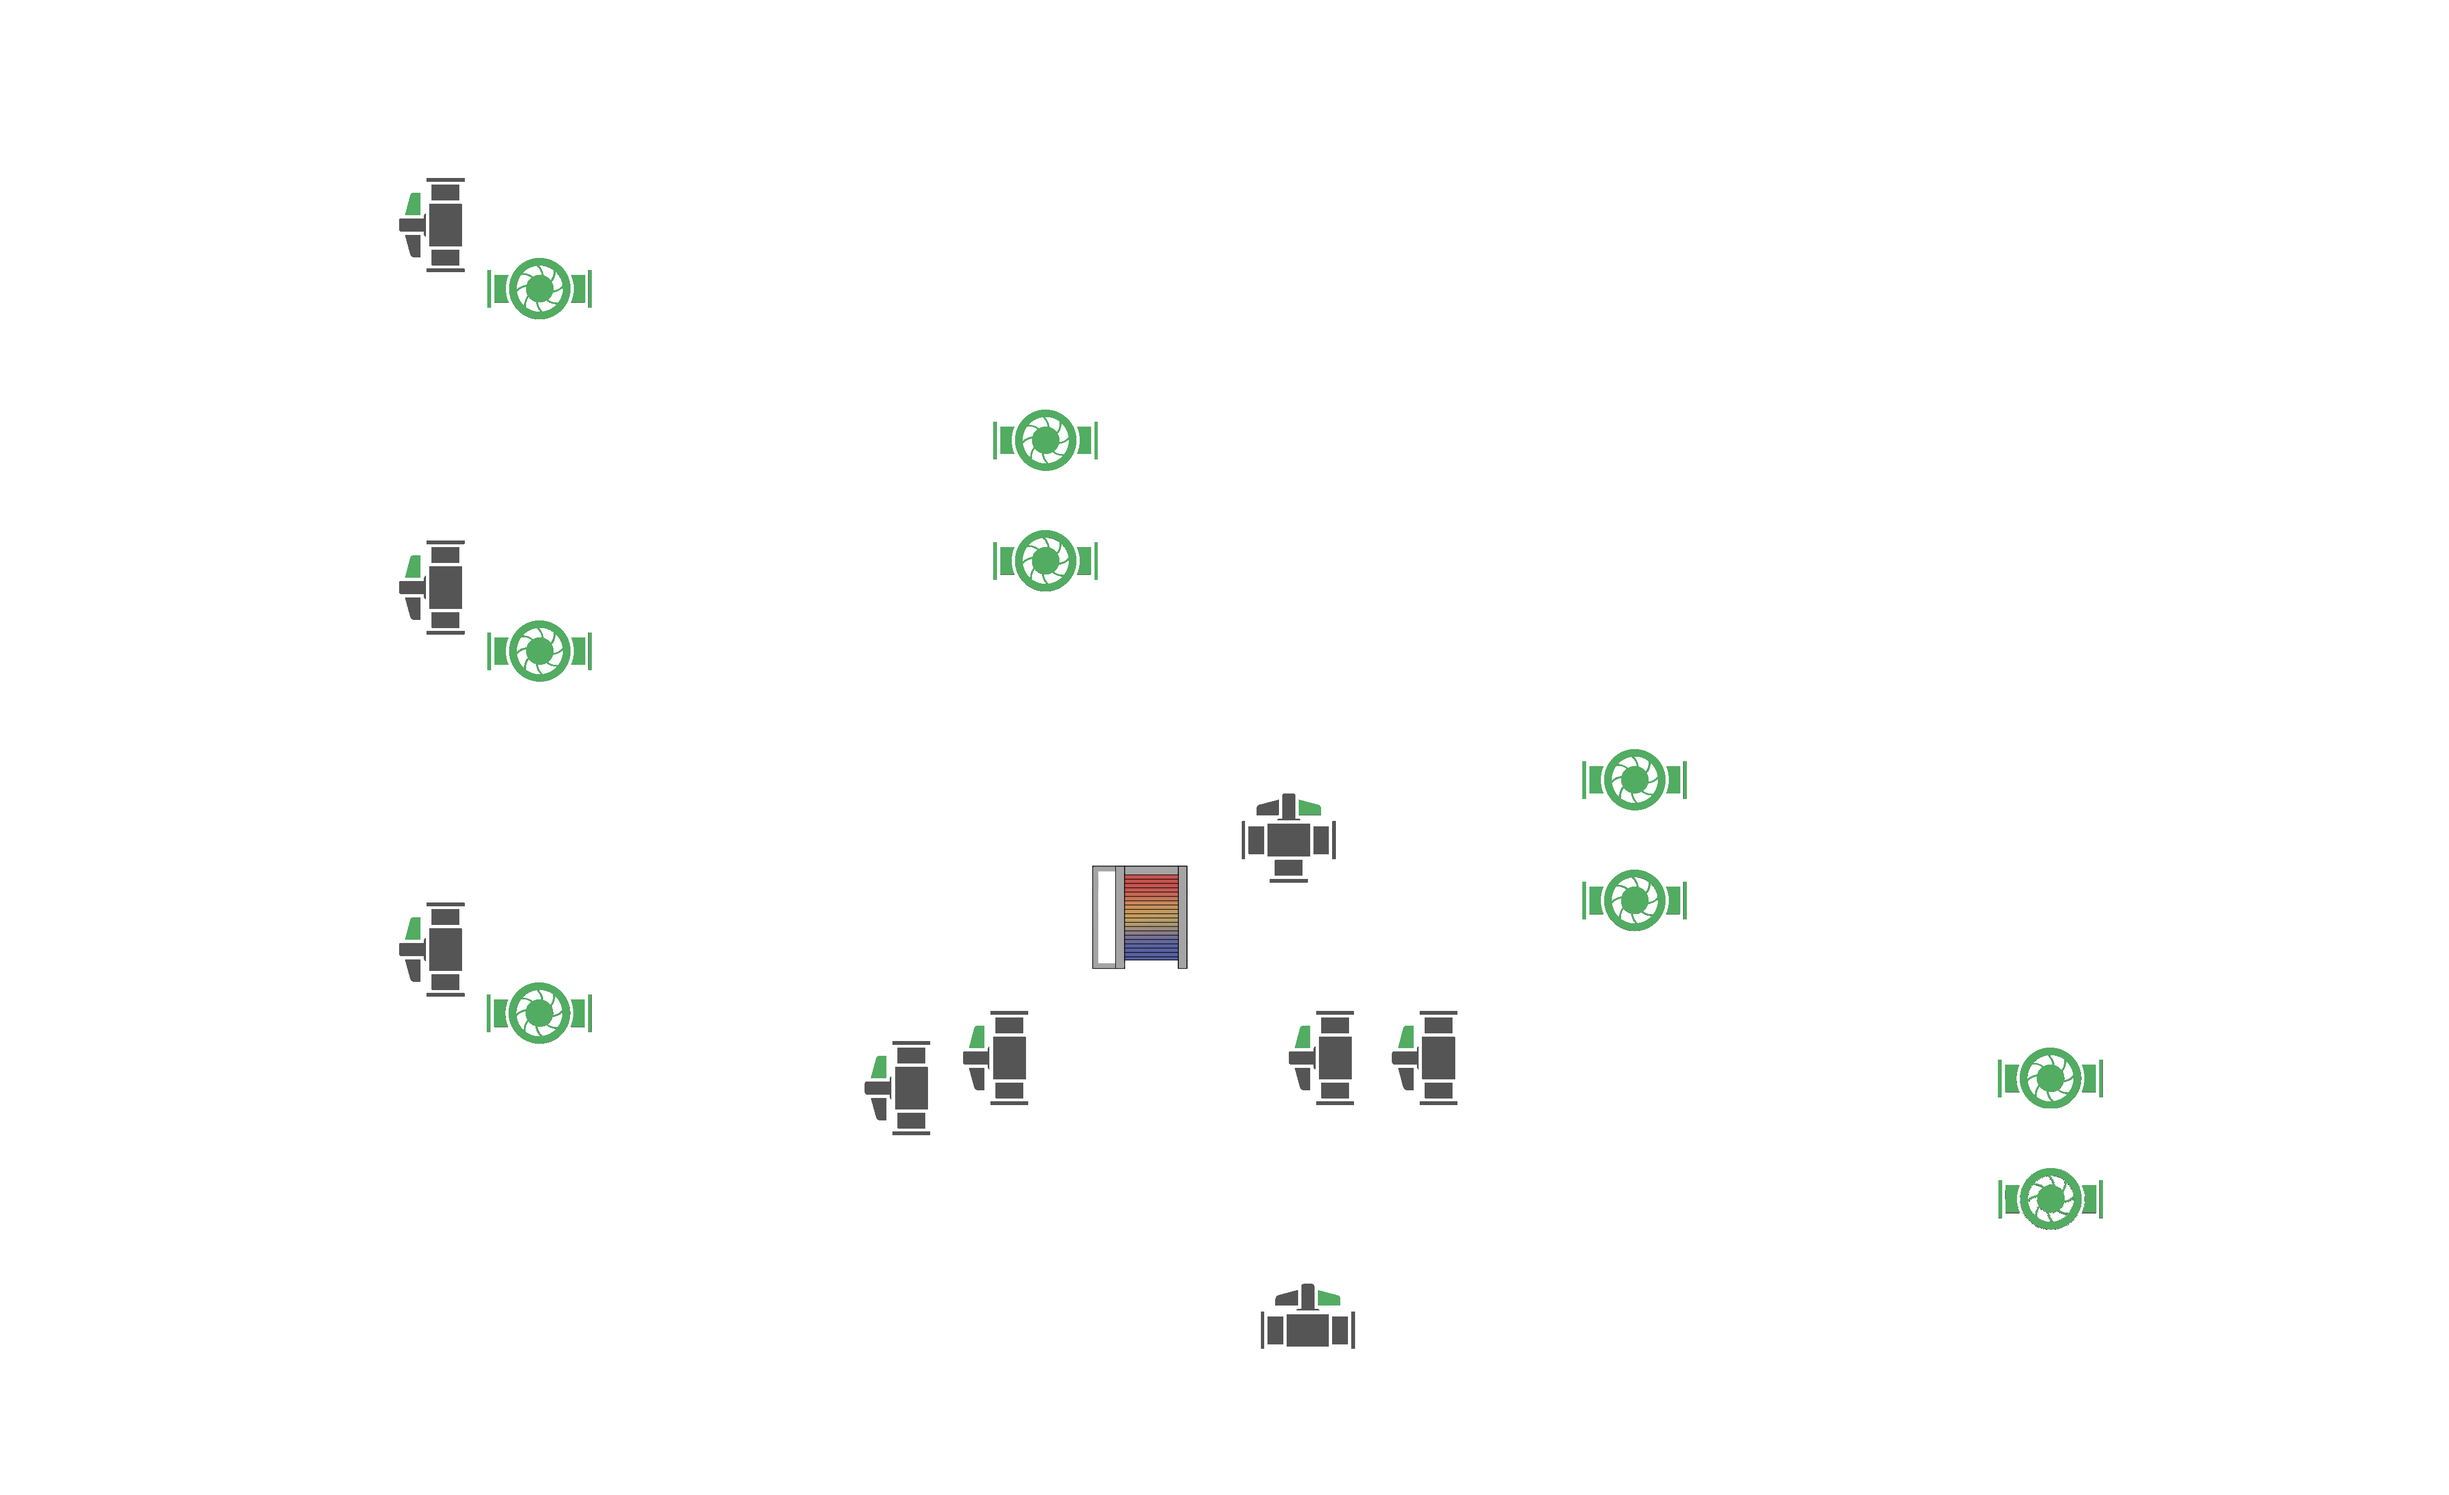
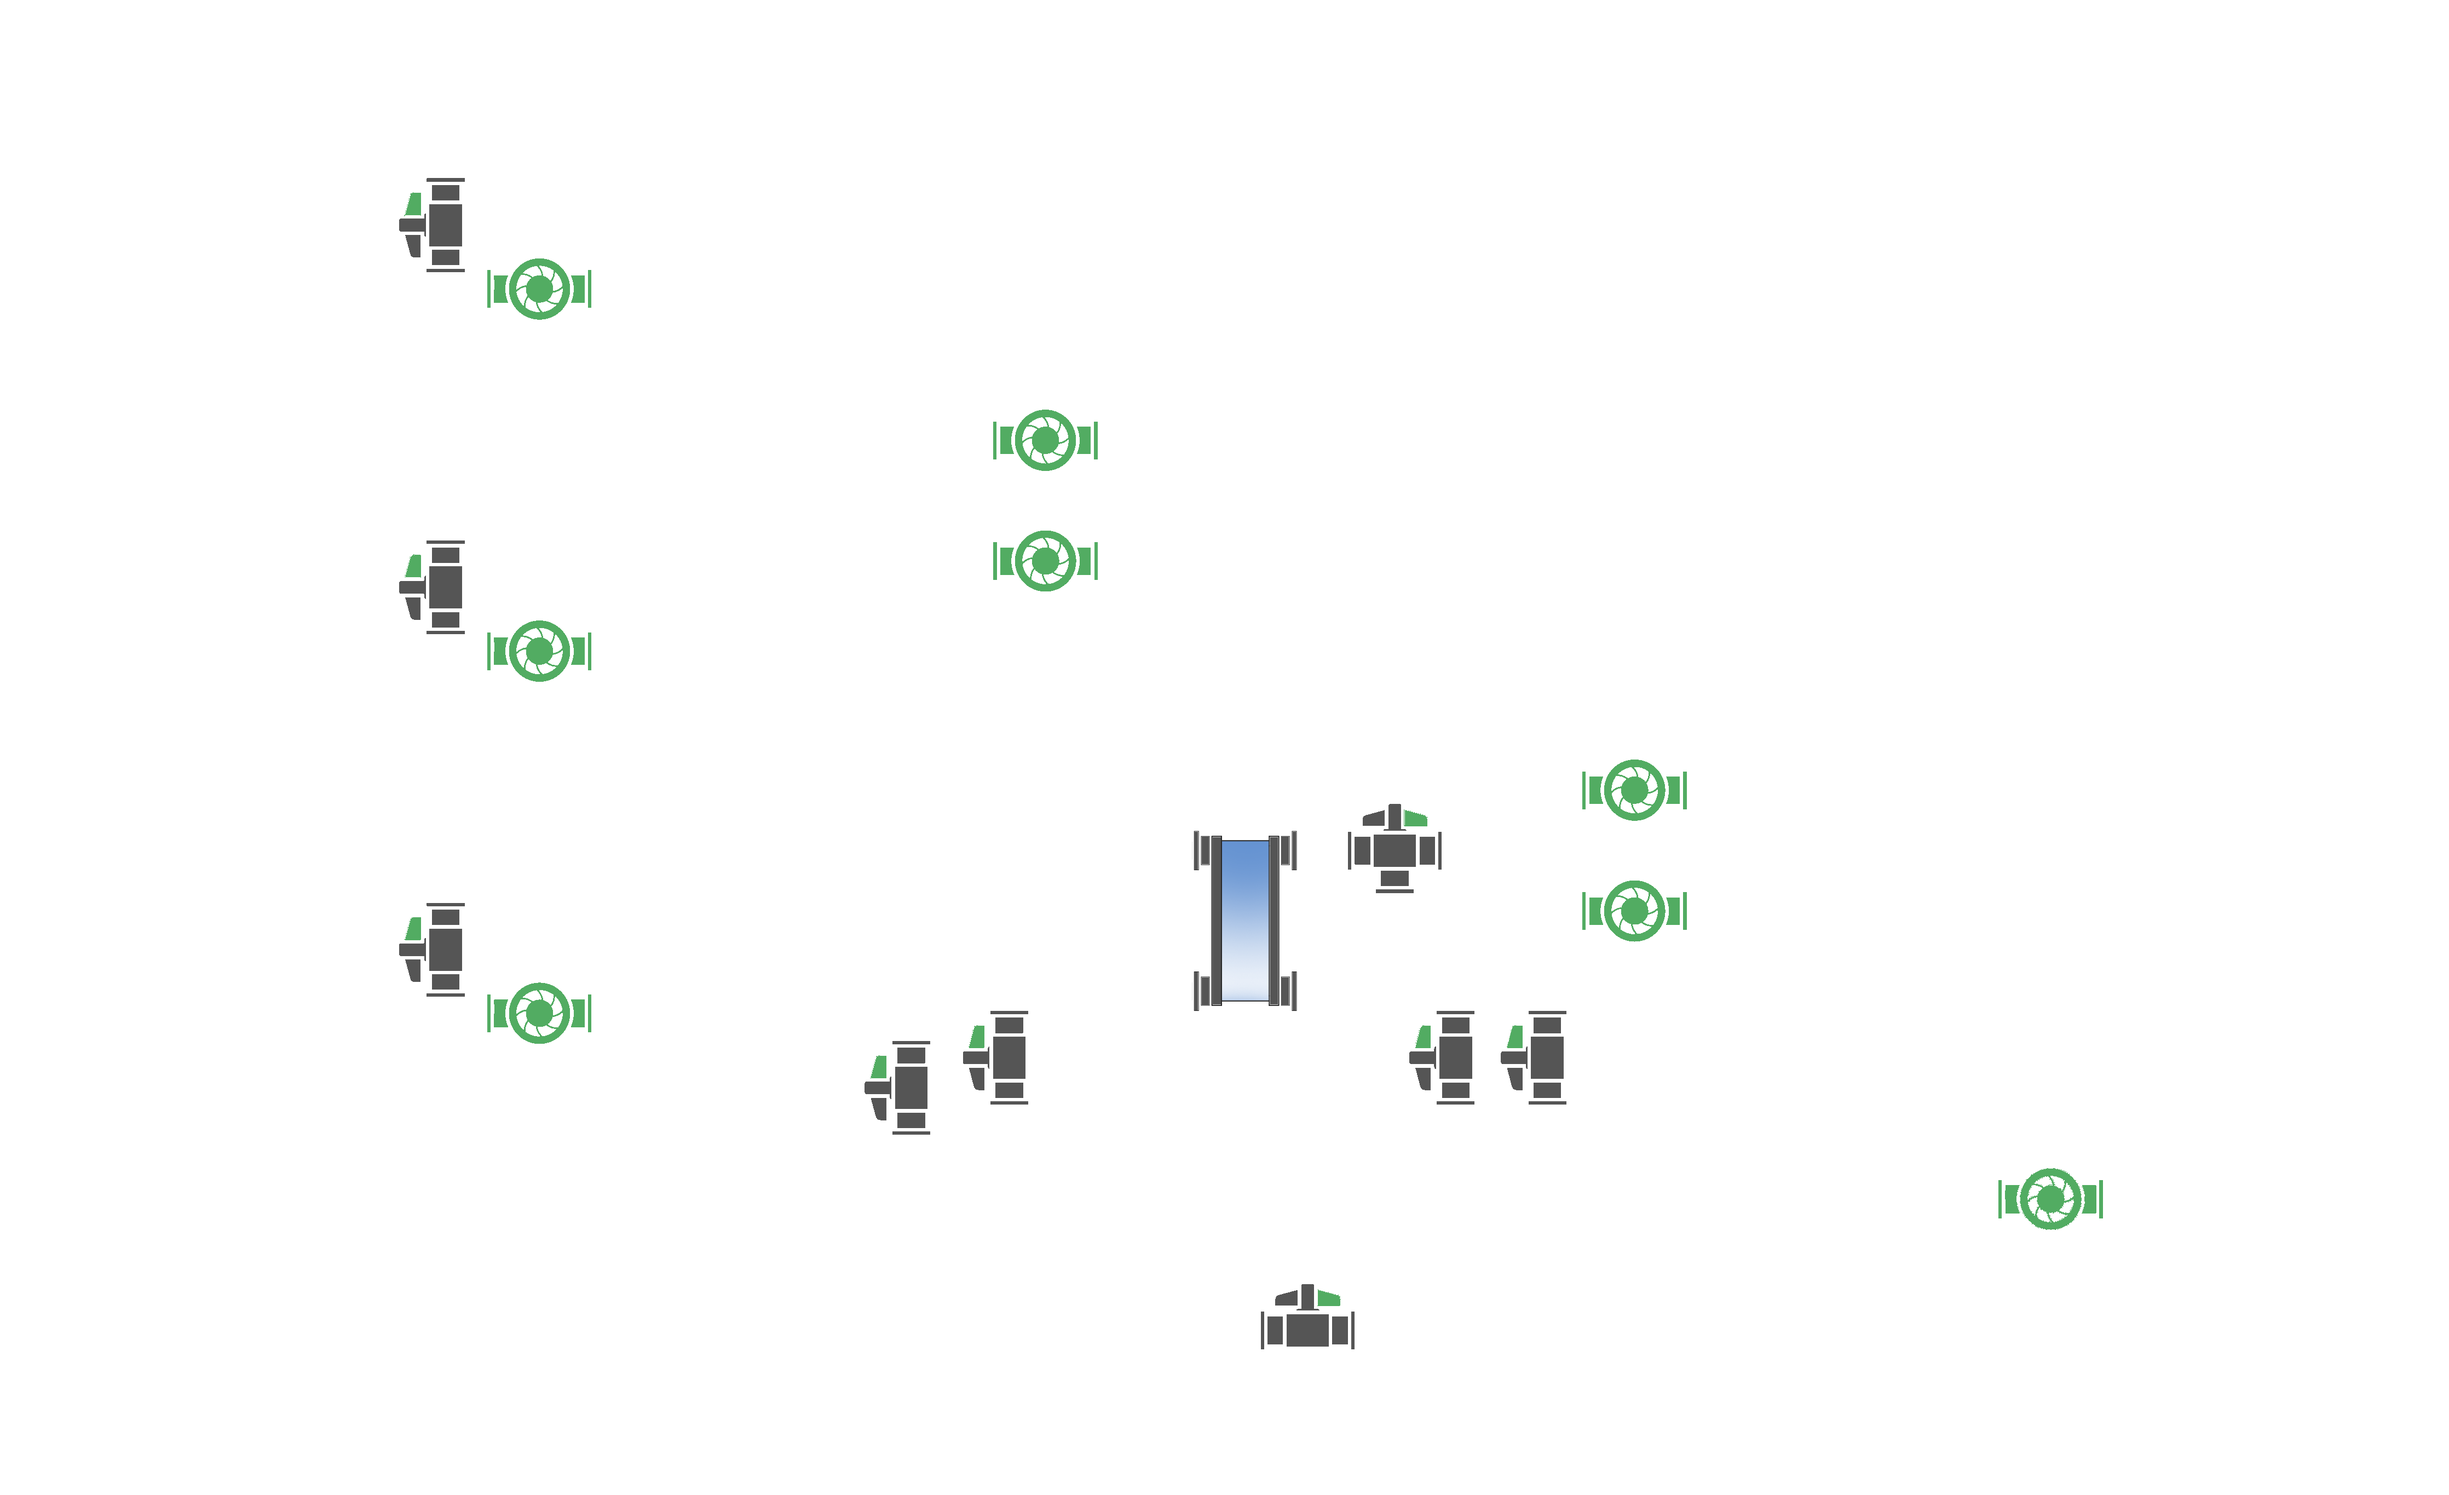
Правки

Changed region(s): [[0.4351, 0.5293, 0.6526, 0.7473], [0.808, 0.685, 0.8701, 0.7473], [0.6526, 0.4982, 0.6837, 0.6227]]

diff --git a/src/components/Pages/SchemePage.js b/src/components/Pages/SchemePage.js
@@ -5,11 +5,12 @@ import waterPart1 from "../Images/water1.png";
 import waterPart2 from "../Images/water2.png";
 import waterPart3 from "../Images/water3.png";
 import waterPart4 from "../Images/water4.png";
-import pipes from "../Images/pipes.png";
 import boilerFirst from "../Images/firefirst.png";
 import boilerSecond from "../Images/firesecond.png";
 import boilerThird from "../Images/firethird.png";
+import pipes from "../Images/pipes.png";
 import all from "../Images/all.png";
+import add from "../Images/add.png";
 import styles from "./ShemePage.module.css";
 import {Image} from "antd";
 
@@ -93,12 +94,14 @@ const SchemePage = () => {
                 <div className={styles.tempReturn}>{tempReturn}</div>
                 <div className={styles.rawWater}>{rawWater}</div>
                 <Image src={scheme} preview={false}/>
-                <Image src={pipes} preview={false} rootClassName={styles.Img}/>
                 <Image src={waterParam} preview={false} rootClassName={styles.Img}/>
                 <Image src={boilerFirstParam} preview={false} rootClassName={styles.Img}/>
                 <Image src={boilerSecondParam} preview={false} rootClassName={styles.Img}/>
                 <Image src={boilerThirdParam} preview={false} rootClassName={styles.Img}/>
+                <Image src={pipes} preview={false} rootClassName={styles.Img}/>
+                <Image src={pipes} preview={false} rootClassName={styles.Img}/>
                 <Image src={all} preview={false} rootClassName={styles.Img}/>
+                <Image src={add} preview={false} rootClassName={styles.Img}/>
             </div>
     );
 };

diff --git a/src/components/Pages/ShemePage.module.css b/src/components/Pages/ShemePage.module.css
@@ -73,7 +73,7 @@
 
 .pumpDifference {
     position: absolute;
-    top: 48.4%;
+    top: 49.1%;
     left: 59.3%;
     font-size: 0.7vw;
     font-weight: bold;
@@ -89,7 +89,7 @@
 
 .boilerCircuitSeven {
     position: absolute;
-    top: 48.4%;
+    top: 49%;
     left: 79.7%;
     font-size: 0.7vw;
     font-weight: bold;
@@ -105,15 +105,7 @@
 
 .tempFiling {
     position: absolute;
-    top: 52.4%;
-    left: 82.9%;
-    font-size: 0.7vw;
-    font-weight: bold;
-}
-
-.tempFiling {
-    position: absolute;
-    top: 52.4%;
+    top: 53%;
     left: 82.9%;
     font-size: 0.7vw;
     font-weight: bold;

diff --git a/src/components/Header/Header.js b/src/components/Header/Header.js
@@ -26,7 +26,7 @@ export const Header = ({ isLoggedIn, setIsLoggedIn, userName, setIsAdmin }) => {
             role: regRole,
             password
         }
-
+        
         Registration(data)
     }
 
